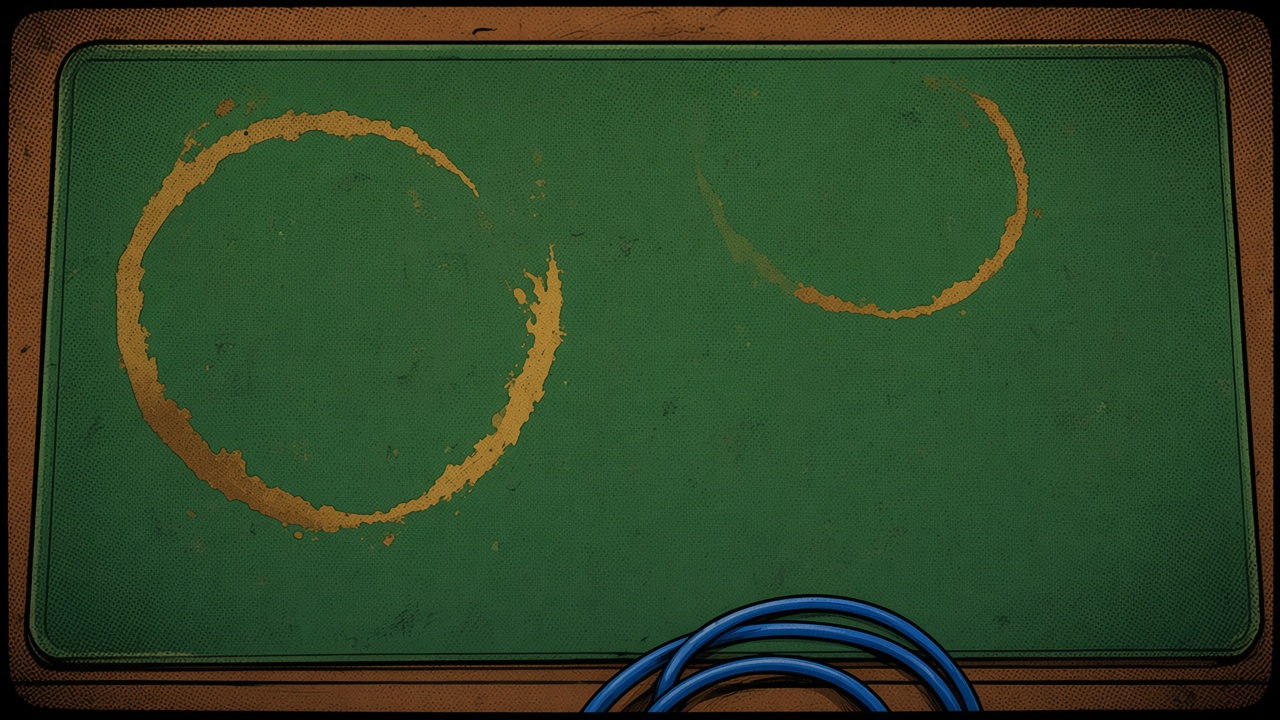
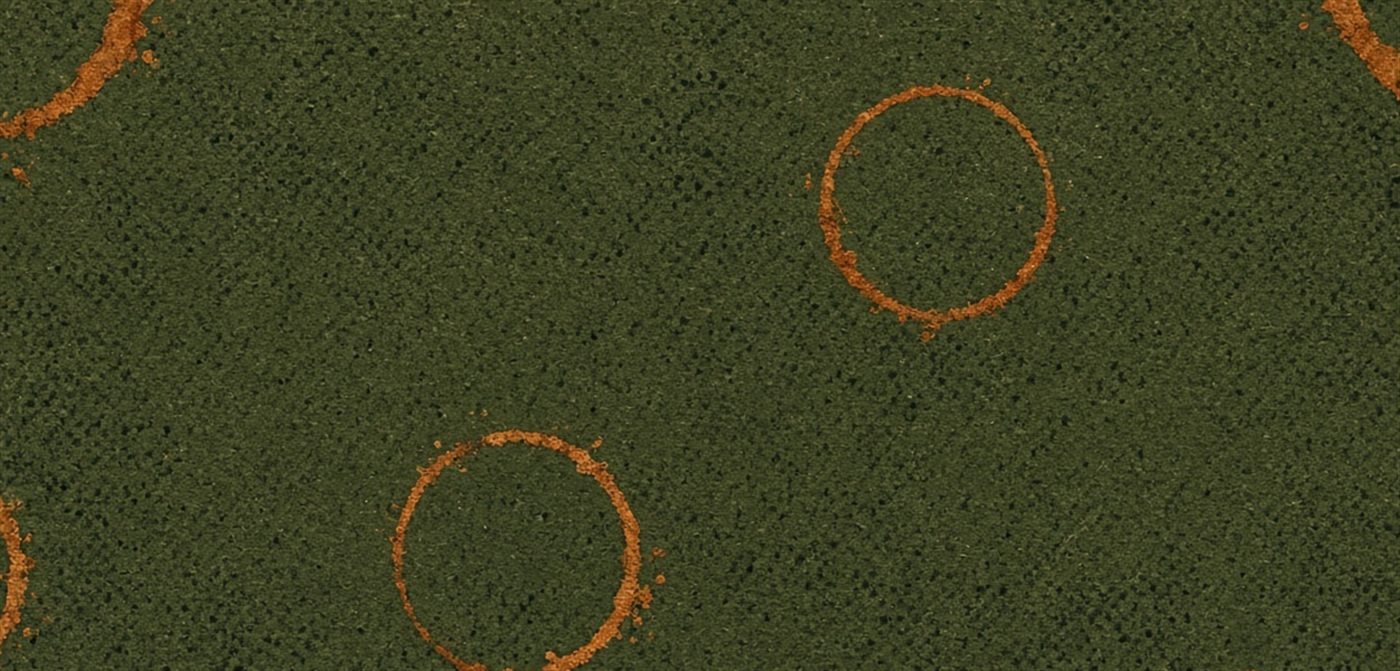
Plancia, HUD di combattimento, ticker e nome bot in linea
Il nome del bot si modifica nel campo della lobby. I bot lasciano traccia (passo, ticker, toast). Finestra di interferenza con timer grande. Texture felt/desk/room per plancia e pad.

diff --git a/public/client.js b/public/client.js
@@ -127,7 +127,12 @@
         if (e.pid === me) toast(`Fuga da ${e.threat}: dado ${e.roll} (serviva ${e.need}+). ${e.ok ? 'Ti disconnetti in tempo.' : 'Ti prende: ' + e.bad + '.'}${q}`, e.ok ? 'good' : 'bad', 8000);
         else toast(`${name(e.pid)} tenta la fuga da ${e.threat}: ${e.roll}, ${e.ok ? 'scappa' : 'preso'}.`);
         break;
-      case 'sabotage': if (e.target === me) toast(`Sabotaggio: ${e.text}.${q}`, 'bad', 7000); break;
+      case 'window': toast('Finestra aperta: interferisci o passa. Guarda il timer.', 'warn', 7000); break;
+      case 'pass': if (e.pid !== me) toast(`${name(e.pid)} passa.`); break;
+      case 'helpAsk':
+        if (e.target !== me) toast(`${name(e.from)} chiede aiuto a ${name(e.target)} (${e.share} tesori).`);
+        break;
+      case 'sabotage': toast(`Sabotaggio: ${e.text}.${q}`, e.target === me ? 'bad' : 'warn', 7000); break;
       case 'helpNo': if (e.to === me) toast(`${name(e.by)} rifiuta.${q}`, 'warn'); break;
       case 'curse':
         if (e.target === me) toast(`${name(e.by)} ti gioca «${e.card}»: ${e.text}. «${e.d || ''}»`, 'bad', 8000);
@@ -206,7 +211,7 @@
   const cd = kind => `<span class="cd" data-cd="${kind}">${mmss((kind === 'offer' ? S.offerAt : S.deadlineAt) - Date.now())}</span>`;
   // Confronto senza i countdown: se il contenuto non cambia non si tocca il DOM (niente tap persi).
   const stable = html => html
-    .replace(/<span class="cd" data-cd="(\w+)">[^<]*<\/span>/g, '[$1]')
+    .replace(/<span class="(?:cd|hud-cd)" data-cd="(\w+)">[^<]*<\/span>/g, '[$1]')
     .replace(/(<span class="clock"[^>]*>)[^<]*(<\/span>)/g, '$1$2');
   function paint(el, html, key) {
     const k = stable(html);
@@ -224,6 +229,8 @@
     const scr = $('#screen');
     const oldHand = scr.querySelector('.hand'); const hs = oldHand ? oldHand.scrollLeft : 0;
     const logOld = scr.querySelector('#log'); const ls = logOld ? logOld.scrollTop : 0;
+    const ae = document.activeElement;
+    const botKeep = ae && ae.dataset && ae.dataset.botid ? { id: ae.dataset.botid, v: ae.value, s: ae.selectionStart, e: ae.selectionEnd } : null;
     let changed;
     if (!S.room) { $('#hinfo').textContent = ''; changed = paint(scr, homeHTML(), '_k'); }
     else if (!S.room.started || !S.view) { $('#hinfo').textContent = 'stanza ' + S.room.code; changed = paint(scr, lobbyHTML(), '_k'); }
@@ -236,6 +243,10 @@
       const h = scr.querySelector('.hand'); if (h) h.scrollLeft = hs;
       const lg = scr.querySelector('#log'); if (lg) lg.scrollTop = ls;
       const f = scr.querySelector('#fName'); if (f && document.activeElement === document.body && !S.form.name) f.focus();
+      if (botKeep) {
+        const el = scr.querySelector(`[data-botid="${botKeep.id}"]`);
+        if (el) { el.value = botKeep.v; el.focus(); try { el.setSelectionRange(botKeep.s, botKeep.e); } catch (err) { /* ignore */ } }
+      }
     }
     if (S.modal) renderModal();
   }
@@ -253,9 +264,11 @@
 
   function lobbyHTML() {
     const r = S.room, isHost = r.host === S.you, link = location.origin + '/?r=' + r.code;
-    const lis = r.members.map(m => `<li><span class="nm">${esc(m.name)}</span>
+    const lis = r.members.map(m => `<li>
+      ${isHost && m.isBot
+        ? `<input class="botname inline" data-botid="${esc(m.id)}" maxlength="20" value="${esc(m.name)}" aria-label="Nome del bot">`
+        : `<span class="nm">${esc(m.name)}</span>`}
       ${m.id === r.host ? '<span class="badge host">host</span>' : ''}${m.isBot ? '<span class="badge bot">bot</span>' : ''}${!m.connected ? '<span class="badge off">offline</span>' : ''}${m.id === S.you ? '<span class="badge">tu</span>' : ''}
-      ${isHost && m.isBot ? `<button type="button" class="xbtn" data-do="renameBot" data-id="${esc(m.id)}">Rinomina</button>` : ''}
       ${isHost && m.id !== S.you ? `<button type="button" class="xbtn" data-do="remove" data-id="${esc(m.id)}" aria-label="Rimuovi">✕</button>` : ''}</li>`).join('');
     const n = r.members.length, ready = n >= r.min;
     const need = Math.max(0, r.min - n);
@@ -300,11 +313,16 @@
       </div>
       ${S.tut ? `<p class="tutwait">In attesa che tutti chiudano le istruzioni (${S.tut.ready}/${S.tut.total})</p>` : ''}
       <section id="opps" aria-label="Avversari">${others.map(oppHTML).join('')}</section>
-      <section id="table">${bubblesHTML()}${tableHTML()}</section>
+      <section id="table">${tickerHTML()}${bubblesHTML()}${tableHTML()}</section>
       <section id="me" class="${v.cur === S.you && !v.over ? ' active' : ''}">${meHTML(me)}</section>
       <section id="log" class="${S.logOpen ? ' open' : ''}" role="button" tabindex="0" aria-expanded="${S.logOpen ? 'true' : 'false'}" title="Tocca per espandere">${(S.logOpen ? v.log.slice().reverse() : v.log.slice(-5).reverse()).map(r => `<div class="l ${esc(r.cls)}">${esc(r.t)}</div>`).join('')}</section>
       <nav id="actions">${actionsHTML()}</nav>
     </div>`;
+  }
+  function tickerHTML() {
+    const rows = (V().log || []).filter(r => r.cls !== 'quip').slice(-4);
+    if (!rows.length) return '';
+    return `<ol class="ticker" aria-live="polite">${rows.map(r => `<li class="${esc(r.cls)}">${esc(r.t)}</li>`).join('')}</ol>`;
   }
   function bubblesHTML() {
     const v = V(), log = v.log || [];
@@ -351,13 +369,31 @@
       const mdet = c.threats.map(t => `${esc(t.card.name)}: ${t.eff}${t.mod ? (t.mod > 0 ? ' +' : ' ') + t.mod : ''}`);
       if (c.mBonus) mdet.push(`bonus +${c.mBonus}`);
       let status = '';
-      if (c.step === 'prep') status = `${esc(f.name)} si prepara al combattimento · ${cd('main')}`;
-      else if (c.step === 'window') {
+      let hudK = 'COMBATTIMENTO', hudM = '';
+      if (c.step === 'prep') {
+        status = `${esc(f.name)} si prepara. Poi si apre la finestra per gli altri.`;
+        hudK = 'PREPARAZIONE'; hudM = status;
+      } else if (c.step === 'window') {
         const waiting = v.players.filter(p => !passed(p.id)).map(p => p.name);
-        status = `Finestra aperta · mancano: ${esc(waiting.join(', ') || 'nessuno')} · ${cd('main')}`;
-      } else if (c.step === 'flee') status = `${esc(f.name)} deve tentare la fuga · ${cd('main')}`;
-      if (c.offer) status += `<br>${esc(name(c.offer.from))} chiede aiuto a ${esc(name(c.offer.to))} per ${c.offer.share} ${pl(c.offer.share, 'tesoro', 'tesori')} · ${cd('offer')}`;
-      return `<div class="fight">
+        status = `Finestra aperta · mancano: ${esc(waiting.join(', ') || 'nessuno')}`;
+        hudK = 'FINESTRA'; hudM = passed(S.you) ? 'Hai passato. Se qualcuno gioca, dovrai decidere di nuovo.' : 'Interferisci (carta) o passa. Il timer è quello qui a destra.';
+      } else if (c.step === 'flee') {
+        status = `${esc(f.name)} deve tentare la fuga.`;
+        hudK = 'FUGA'; hudM = status;
+      }
+      if (c.offer) {
+        const ask = `${esc(name(c.offer.from))} chiede aiuto a ${esc(name(c.offer.to))} per ${c.offer.share} ${pl(c.offer.share, 'tesoro', 'tesori')}`;
+        status += `<br>${ask} · ${cd('offer')}`;
+        hudK = 'AIUTO'; hudM = ask;
+      }
+      const youNeed = v.needs.includes(S.you);
+      const hudCd = c.offer && c.offer.to === S.you ? 'offer' : 'main';
+      return `<div class="hud${youNeed ? ' need' : ''}${c.step === 'window' ? ' win' : ''}" role="status">
+        <span class="hud-k">${hudK}</span>
+        <span class="hud-m">${hudM}</span>
+        <span class="hud-cd" data-cd="${hudCd}">${mmss((hudCd === 'offer' ? S.offerAt : S.deadlineAt) - Date.now())}</span>
+      </div>
+      <div class="fight">
         <div class="zone side f"><p class="zone-lab">Chi combatte</p><div class="lab">${esc(f.name)}${h ? ' + ' + esc(h.name) : ''}</div><div class="pow">${c.fighterPower}</div><div class="det">${fdet.map(esc).join('<br>')}</div></div>
         <div class="vs ${c.winning ? 'w' : 'l'}">${c.winning ? 'VINCE' : 'PERDE'}</div>
         <div class="zone side m"><p class="zone-lab">Minacce</p><div class="lab">${c.threats.length > 1 ? 'Minacce' : 'Minaccia'}</div><div class="pow">${c.threatPower}</div><div class="cardrow">${c.threats.map(t => cardHTML(t.card)).join('')}</div><div class="det">${mdet.join('<br>')}</div></div></div>
@@ -575,7 +611,7 @@
           <p>Da solo: ${c.fighterPower} contro ${c.threatPower}. Con te: ${with_}.</p>
           <p>Ti offre <b>${c.offer.share}</b> ${pl(c.offer.share, 'tesoro', 'tesori')} su ${c.treasures}. Tu non guadagni livelli.</p>
           ${f.level + c.levels >= 10 ? '<p class="warn">Se vince, vince la partita.</p>' : ''}
-          <p class="hint">Rispondi entro ${cd('offer')}</p>`;
+          <p class="hint">Rispondi entro <span class="hud-cd" data-cd="offer">${mmss(S.offerAt - Date.now())}</span></p>`;
       },
       buttons: () => [{ label: 'Accetta', cls: 'primary', on: () => act({ type: 'answerHelp', accept: true }) }, { label: 'Rifiuta', cls: 'ghost', on: () => act({ type: 'answerHelp', accept: false }) }]
     });
@@ -746,6 +782,10 @@
     S.form[f] = f === 'code' ? e.target.value.toUpperCase() : e.target.value;
     if (f === 'name') store.set('esc-name', e.target.value);
   });
+  document.addEventListener('change', e => {
+    const id = e.target.dataset && e.target.dataset.botid;
+    if (id) send({ t: 'renameBot', id, name: e.target.value });
+  });
   document.addEventListener('keydown', e => {
     if (e.key === 'Escape' && S.modal && S.modal.dismiss) { closeModal(); return; }
     if (!S.modal && !tut.classList.contains('hidden')) {
@@ -756,6 +796,7 @@
     if (e.key === 'Enter' || e.key === ' ') {
       if (e.target && e.target.id === 'log') { e.preventDefault(); S.logOpen = !S.logOpen; render(); return; }
     }
+    if (e.key === 'Enter' && e.target.dataset && e.target.dataset.botid) { e.target.blur(); return; }
     if (e.key !== 'Enter' || !e.target.dataset || !e.target.dataset.f) return;
     doAction(e.target.dataset.f === 'code' ? 'join' : 'create');
   });
@@ -810,20 +851,6 @@
         S.form.bot = null;
         return send({ t: 'addBot', name });
       }
-      case 'renameBot': {
-        const m = S.room.members.find(x => x.id === el.dataset.id);
-        if (!m) return;
-        S.form.botRename = m.name;
-        const id = m.id;
-        return openModal({
-          dismiss: true, title: 'Nome del bot',
-          html: () => `<div class="field"><label for="fRen">Nome</label><input id="fRen" data-f="botRename" maxlength="20" value="${esc(S.form.botRename)}"></div>`,
-          buttons: () => [
-            { label: 'Salva', cls: 'primary', on: () => send({ t: 'renameBot', id, name: S.form.botRename }) },
-            { label: 'Annulla', cls: 'ghost' }
-          ]
-        });
-      }
       case 'remove': return send({ t: 'removeMember', id: el.dataset.id });
       case 'start': return send({ t: 'start' });
       case 'rematch': return send({ t: 'rematch' });
@@ -859,7 +886,7 @@
       if (el.classList.contains('clock') && S.tut) { el.textContent = 'pausa'; el.classList.remove('urgent'); return; }
       const left = (el.dataset.cd === 'offer' ? S.offerAt : S.deadlineAt) - Date.now();
       el.textContent = mmss(left);
-      if (el.classList.contains('clock')) el.classList.toggle('urgent', left < 15000);
+      if (el.classList.contains('clock') || el.classList.contains('hud-cd')) el.classList.toggle('urgent', left < 15000);
     });
   }, 1000);
 

diff --git a/public/style.css b/public/style.css
@@ -6,7 +6,7 @@
   --sans:system-ui,-apple-system,"Segoe UI",Roboto,sans-serif;
 }
 *{box-sizing:border-box}
-html,body{margin:0;background:var(--bg);color:var(--text);font:15px/1.4 var(--sans)}
+html,body{margin:0;background:var(--bg) url('/board/room.jpg') center/cover fixed;color:var(--text);font:15px/1.4 var(--sans)}
 button,input{font:inherit;color:inherit}
 .hidden{display:none!important}
 #app{max-width:820px;margin:0 auto;padding:10px 10px 0;padding-top:max(10px,env(safe-area-inset-top));display:flex;flex-direction:column;gap:10px;min-height:100dvh}
@@ -31,6 +31,7 @@ header .sp{flex:1}
 .link{font:500 12px var(--mono);color:var(--mute);word-break:break-all}
 .members{list-style:none;margin:8px 0;padding:0;display:flex;flex-direction:column;gap:6px}
 .members li{display:flex;align-items:center;gap:8px;background:var(--panel2);border-radius:10px;padding:8px 10px}
+.members .botname.inline{flex:1;min-width:0}
 .members .nm{flex:1;font-weight:600}
 .badge{font:700 9.5px var(--mono);text-transform:uppercase;letter-spacing:.06em;padding:2px 6px;border-radius:5px;background:#203040;color:var(--mute)}
 .badge.host{background:rgba(63,185,80,.15);color:var(--green)}
@@ -39,7 +40,9 @@ header .sp{flex:1}
 .xbtn{background:transparent;border:1px solid var(--line);border-radius:8px;padding:4px 9px;cursor:pointer;color:var(--mute)}
 
 #opps{display:grid;grid-template-columns:repeat(3,1fr);gap:6px}
-.opp{background:var(--panel);border:3px solid var(--ink);border-radius:10px;padding:7px 8px;text-align:left;cursor:pointer;min-width:0;position:relative;box-shadow:3px 3px 0 #000}
+.opp{background:var(--panel) url('/board/desk.jpg') center/cover;border:3px solid var(--ink);border-radius:10px;padding:7px 8px;text-align:left;cursor:pointer;min-width:0;position:relative;box-shadow:3px 3px 0 #000}
+.opp::before{content:"";position:absolute;inset:0;border-radius:7px;background:rgba(10,14,20,.72);pointer-events:none}
+.opp>*{position:relative}
 .opp.active{border-color:var(--amber);box-shadow:0 0 0 1px var(--amber) inset}
 .opp.off{opacity:.55}
 .on{font-weight:700;font-size:13.5px;white-space:nowrap;overflow:hidden;text-overflow:ellipsis}
@@ -61,7 +64,7 @@ header .sp{flex:1}
 .esp i.on{background:var(--red)}
 .esp.w3 i.on{box-shadow:0 0 6px var(--red)}
 
-#board{display:flex;flex-direction:column;gap:8px;background:#10140f;border:3px solid var(--ink);border-radius:16px;padding:10px;box-shadow:4px 4px 0 #000}
+#board{display:flex;flex-direction:column;gap:8px;background:#10140f url('/board/felt.jpg') center/cover;border:3px solid var(--ink);border-radius:16px;padding:10px;box-shadow:4px 4px 0 #000}
 .board-bar{display:flex;align-items:center;justify-content:flex-end;gap:10px}
 .piles{display:flex;gap:6px}
 .pile{width:40px;height:56px;border-radius:7px;border:3px solid var(--ink);position:relative;overflow:hidden;box-shadow:3px 3px 0 #000;background:#3a1518 url('/board/back-ticket.jpg') center/cover}
@@ -72,9 +75,20 @@ header .sp{flex:1}
 .zone-lab{font:700 11px var(--mono);letter-spacing:.08em;text-transform:uppercase;color:var(--paper);margin:0 0 4px}
 .clock{font:700 22px var(--mono);background:var(--ink);border:3px solid var(--ink);border-radius:999px;padding:6px 14px;color:var(--amber);min-width:4.2em;text-align:center;box-shadow:3px 3px 0 #000}
 .clock.urgent{color:var(--red);animation:tick 1s steps(2,end) infinite}
-#table{min-height:140px;background:#16301f url('/board/felt.jpg') center/cover;border:3px solid var(--ink);border-radius:14px;padding:12px 12px 26px;position:relative;box-shadow:3px 3px 0 #000}
+#table{min-height:140px;background:#16301f url('/board/felt.jpg') center/cover;border:3px solid #6b4423;border-radius:14px;padding:12px 12px 26px;position:relative;box-shadow:inset 0 0 0 5px #3a2414,4px 4px 0 #000}
+.ticker{list-style:none;margin:0 0 8px;padding:8px 10px;background:rgba(8,10,8,.82);border:2px solid var(--ink);border-radius:8px;font:500 12.5px/1.4 var(--mono);color:var(--paper)}
+.ticker li{white-space:nowrap;overflow:hidden;text-overflow:ellipsis}
+.ticker .bad,.ticker .sab{color:#ffb3ae}
+.ticker .fight{color:var(--amber)}
+.hud{display:grid;grid-template-columns:auto 1fr auto;gap:8px;align-items:center;background:rgba(8,10,12,.9);border:3px solid var(--amber);border-radius:10px;padding:8px 12px;margin-bottom:10px;color:var(--paper);box-shadow:3px 3px 0 #000}
+.hud.need{border-color:var(--green)}
+.hud.win.need{animation:tick 1s steps(2,end) infinite}
+.hud-k{font:700 11px var(--mono);letter-spacing:.08em}
+.hud-m{font-size:13px}
+.hud-cd{font:700 26px/1 var(--mono);color:var(--amber);white-space:nowrap}
+.hud-cd.urgent{color:var(--red)}
 .bubbles{display:flex;flex-direction:column;align-items:stretch;gap:8px;margin-bottom:8px}
-.bubble{position:relative;align-self:flex-start;background:var(--paper);color:var(--ink);border:3px solid var(--ink);border-radius:16px 16px 16px 4px;padding:8px 12px;font-weight:750;max-width:min(100%,440px);box-shadow:3px 3px 0 #000;animation:pop .2s ease-out}
+.bubble{position:relative;align-self:flex-start;background:var(--paper);color:var(--ink);border:3px solid var(--ink);border-radius:4px 16px 16px 16px;padding:8px 12px;font-weight:750;max-width:min(100%,440px);box-shadow:3px 3px 0 #000;animation:pop .2s ease-out}
 .bubble.mine{align-self:flex-end;border-radius:16px 16px 4px 16px}
 .bubble .bw{display:block;font:700 9px var(--mono);letter-spacing:.07em;text-transform:uppercase;color:#8a3b12;margin-bottom:2px}
 .bubble::after{content:"";position:absolute;left:18px;bottom:-8px;border:8px solid transparent;border-top-color:var(--ink);border-bottom:0}
@@ -86,7 +100,7 @@ header .sp{flex:1}
 .hintbig b{color:var(--text)}
 .revealed{display:flex;gap:10px;align-items:flex-start;margin-top:8px}
 .fight{display:grid;grid-template-columns:1fr auto 1fr;gap:8px;align-items:center}
-.side{background:rgba(12,16,22,.92);border:3px solid var(--ink);border-radius:10px;padding:8px;min-width:0;box-shadow:3px 3px 0 #000}
+.side{background:rgba(8,12,18,.92);border:3px solid var(--ink);border-radius:10px;padding:8px;min-width:0;box-shadow:3px 3px 0 #000}
 .side .lab{font-size:12px;font-weight:600;white-space:nowrap;overflow:hidden;text-overflow:ellipsis}
 .side .pow{font:700 34px var(--mono);line-height:1.1}
 .side.f .pow{color:var(--blue)}
@@ -96,14 +110,16 @@ header .sp{flex:1}
 .vs.w{background:#14301c;color:var(--green)}
 .vs.l{background:#3a1614;color:var(--red);animation:tick 1s steps(2,end) infinite}
 .stake{font:500 11.5px var(--mono);color:var(--amber);margin-top:8px}
-.wstat{font:500 11.5px var(--mono);margin-top:6px;color:var(--text);background:var(--panel2);border-radius:8px;padding:6px 8px}
+.wstat{font:500 11.5px var(--mono);margin-top:6px;color:var(--paper);background:rgba(8,10,12,.82);border:2px solid var(--ink);border-radius:8px;padding:6px 8px}
 .wstat .cd{color:var(--amber)}
 .ev{margin:6px 0 0;padding-left:16px;font-size:12px;color:var(--mute)}
 .ev li{margin:2px 0}
 .flavor{font-style:italic;color:#9fb0c3;font-size:12.5px;margin-top:8px;border-left:2px solid var(--line);padding-left:8px}
 .cardrow{display:flex;gap:8px;overflow-x:auto;padding:8px 0 2px}
 
-#me{background:var(--panel);border:3px solid var(--ink);border-radius:12px;padding:10px;box-shadow:3px 3px 0 #000}
+#me{background:var(--panel) url('/board/desk.jpg') center/cover;border:3px solid var(--ink);border-radius:12px;padding:10px;box-shadow:3px 3px 0 #000;position:relative}
+#me::before{content:"";position:absolute;inset:0;border-radius:9px;background:rgba(10,14,20,.74);pointer-events:none}
+#me>*{position:relative}
 #me.active{border-color:var(--amber)}
 .mehead{display:flex;gap:10px;align-items:center}
 .lvlbox{text-align:center;min-width:64px}
@@ -368,7 +384,7 @@ a.hbtn{text-decoration:none;color:inherit;display:inline-block}
 @keyframes pop{from{opacity:0;transform:translateY(6px) scale(.96)}to{opacity:1;transform:none}}
 @keyframes tick{50%{filter:brightness(1.35)}}
 @media (prefers-reduced-motion:reduce){
-  .bubble,.clock.urgent,.vs.l{animation:none}
+  .bubble,.clock.urgent,.vs.l,.hud.win.need{animation:none}
   .hand[data-hand-layout="fan"] .card .face,.hand[data-hand-layout="fan"] .card .tag,.wiki-i img{transition:none}
   #peek{animation:none}
   .ttrack{scroll-behavior:auto}

diff --git a/test/art.js b/test/art.js
@@ -25,7 +25,7 @@ for (const q of Object.values(QUIPS).flat()) assert(!/^«|»$/.test(q), 'il fume
 
 const docker = fs.readFileSync(path.join(root, 'Dockerfile'), 'utf8');
 for (const d of ['art/cards', 'art/board']) assert(docker.includes(`COPY ${d} `), `il Dockerfile non copia ${d}: in produzione le immagini sarebbero 404`);
-for (const f of ['felt', 'back-ticket', 'back-asset', 'logo', 'tut-1', 'tut-2', 'tut-3']) assert(fs.existsSync(path.join(root, 'art', 'board', f + '.jpg')), 'manca art/board/' + f + '.jpg');
+for (const f of ['felt', 'back-ticket', 'back-asset', 'logo', 'tut-1', 'tut-2', 'tut-3', 'desk', 'room']) assert(fs.existsSync(path.join(root, 'art', 'board', f + '.jpg')), 'manca art/board/' + f + '.jpg');
 
 // La CSP (style-src 'self') blocca gli attributi style inline: il browser li ignora in silenzio.
 for (const f of ['index.html', 'client.js', 'admin.html', 'admin.js']) {
@@ -38,6 +38,10 @@ assert(tm, 'TUT non trovato in client.js');
 const TUT = new Function(tm[0] + '; return TUT;')();
 assert.strictEqual(TUT.length, 3, 'il tutorial deve avere esattamente 3 schede');
 assert(src.includes("store.get('esc-tut-off')") && src.includes("store.set('esc-tut-off'"), 'opt-out del tutorial non salvato');
+assert(src.includes('data-botid'), 'nome bot in linea assente');
+assert(src.includes('class="hud'), 'HUD combattimento assente');
+const css = fs.readFileSync(path.join(root, 'public', 'style.css'), 'utf8');
+assert(css.includes('/board/desk.jpg') && css.includes('/board/room.jpg'), 'texture plancia mancanti nello CSS');
 for (const n of [1, 2, 3]) assert(TUT.some(row => String(row[1]) === '/board/tut-' + n + '.jpg'), 'tutorial senza /board/tut-' + n + '.jpg');
 
 console.log(`OK art (${T.length + A.length} carte)`);

diff --git a/server/game.js b/server/game.js
@@ -241,6 +241,7 @@ class Game {
     if (c.fighter !== p.id) fail('Non sei tu a combattere.');
     c.step = 'window'; this.touch(c);
     this.log(`Finestra di interferenza aperta: tutti devono dichiarare «passo».`, 'sys');
+    this.fx({ kind: 'window' });
   }
   a_play(p, a) {
     const c = this.inCombat(['prep', 'window']);
@@ -281,6 +282,8 @@ class Game {
     const c = this.inCombat(['window']);
     if (c.passes.has(p.id)) fail('Hai già passato.');
     c.passes.add(p.id);
+    this.log(`${p.name} passa.`);
+    this.fx({ kind: 'pass', pid: p.id });
     this.maybeClose();
   }
   a_askHelp(p, a) {
@@ -296,6 +299,7 @@ class Game {
     c.offerDeadline = this.now() + this.to.offer;
     if (!c.asked.includes(to.id)) c.asked.push(to.id);
     this.log(`${p.name} chiede aiuto a ${to.name} offrendo ${a.share} ${pl(a.share, 'tesoro', 'tesori')}.`);
+    this.fx({ kind: 'helpAsk', from: p.id, target: to.id, share: a.share });
   }
   a_cancelHelp(p) {
     const c = this.inCombat(['prep', 'window']);

diff --git a/server/index.js b/server/index.js
@@ -12,7 +12,7 @@ const { decide } = require('./bots');
 const { buildDecks } = require('./cards');
 
 const PORT = +process.env.PORT || 3000;
-const BOT_DELAY = process.env.BOT_DELAY !== undefined ? +process.env.BOT_DELAY : 900;
+const BOT_DELAY = process.env.BOT_DELAY !== undefined ? +process.env.BOT_DELAY : 1600;
 const GRACE = process.env.DISCONNECT_GRACE_MS !== undefined ? +process.env.DISCONNECT_GRACE_MS : 15000;
 const TIMEOUT_SCALE = +process.env.TIMEOUT_SCALE || 1;
 const TUT_HOLD_MS = 3 * 60 * 1000;
@@ -130,7 +130,7 @@ const server = http.createServer((req, res) => {
     });
     return;
   }
-  const board = url.match(/^\/board\/(felt|back-ticket|back-asset|logo|tut-1|tut-2|tut-3)\.jpg$/);
+  const board = url.match(/^\/board\/(felt|back-ticket|back-asset|logo|tut-1|tut-2|tut-3|desk|room)\.jpg$/);
   if (board) {
     const fp = path.join(BOARD, board[1] + '.jpg');
     if (!fp.startsWith(BOARD)) { res.writeHead(404); return res.end(); }

diff --git a/test/lifecycle.js b/test/lifecycle.js
@@ -54,6 +54,9 @@ async function until(fn, ms = 5000, what = 'condizione') {
     g.send({ t: 'addBot' });
     await until(() => g.last && g.last.room.members.some(m => m.isBot), 3000, 'guest addBot as host');
     assert(!g.errors.some(e => e.includes('host')), 'addBot rifiutato dopo failover: ' + g.errors.join('; '));
+    const bot = g.last.room.members.find(m => m.isBot);
+    g.send({ t: 'renameBot', id: bot.id, name: 'Rex' });
+    await until(() => g.last.room.members.some(m => m.id === bot.id && m.name === 'Rex'), 3000, 'rename bot');
 
     // --- create switch: no ghost in old lobby ---
     const a = client(), b = client();
